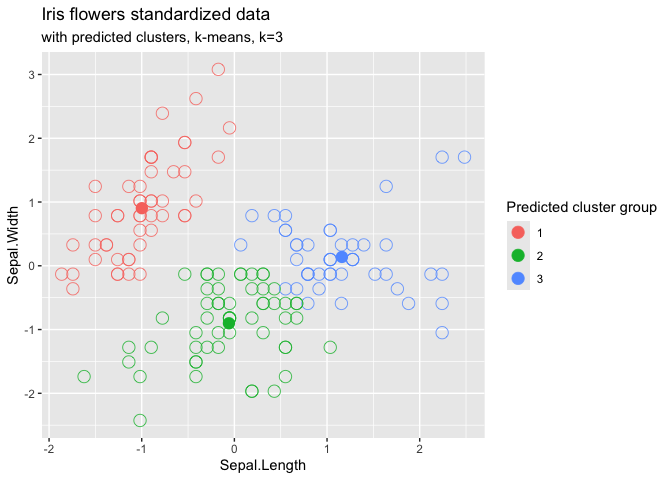
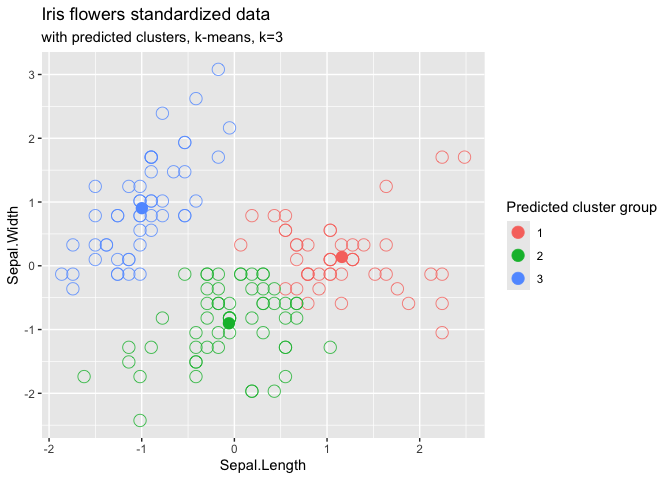
corrections

diff --git a/Clustering/Clustering.md b/Clustering/Clustering.md
@@ -128,23 +128,23 @@ km3 <- kmeans(scale(iris_sepal), centers = 3, nstart = 10)
 km3
 ```
 
-    ## K-means clustering with 3 clusters of sizes 49, 56, 45
+    ## K-means clustering with 3 clusters of sizes 45, 56, 49
     ## 
     ## Cluster means:
     ##   Sepal.Length Sepal.Width
-    ## 1  -0.99872072   0.9032290
+    ## 1   1.16066951   0.1386766
     ## 2  -0.05880023  -0.9017619
-    ## 3   1.16066951   0.1386766
+    ## 3  -0.99872072   0.9032290
     ## 
     ## Clustering vector:
-    ##   [1] 1 1 1 1 1 1 1 1 1 1 1 1 1 1 1 1 1 1 1 1 1 1 1 1 1 1 1 1 1 1 1 1 1 1 1 1 1
-    ##  [38] 1 1 1 1 2 1 1 1 1 1 1 1 1 3 3 3 2 3 2 3 2 3 2 2 2 2 2 2 3 2 2 2 2 3 2 2 2
-    ##  [75] 3 3 3 3 2 2 2 2 2 2 2 3 3 2 2 2 2 2 2 2 2 2 2 2 2 2 3 2 3 3 3 3 2 3 2 3 3
-    ## [112] 2 3 2 2 3 3 3 3 2 3 2 3 2 3 3 2 2 2 3 3 3 2 2 2 3 3 3 2 3 3 3 2 3 3 3 2 3
-    ## [149] 3 2
+    ##   [1] 3 3 3 3 3 3 3 3 3 3 3 3 3 3 3 3 3 3 3 3 3 3 3 3 3 3 3 3 3 3 3 3 3 3 3 3 3
+    ##  [38] 3 3 3 3 2 3 3 3 3 3 3 3 3 1 1 1 2 1 2 1 2 1 2 2 2 2 2 2 1 2 2 2 2 1 2 2 2
+    ##  [75] 1 1 1 1 2 2 2 2 2 2 2 1 1 2 2 2 2 2 2 2 2 2 2 2 2 2 1 2 1 1 1 1 2 1 2 1 1
+    ## [112] 2 1 2 2 1 1 1 1 2 1 2 1 2 1 1 2 2 2 1 1 1 2 2 2 1 1 1 2 1 1 1 2 1 1 1 2 1
+    ## [149] 1 2
     ## 
     ## Within cluster sum of squares by cluster:
-    ## [1] 38.72457 34.32476 28.88194
+    ## [1] 28.88194 34.32476 38.72457
     ##  (between_SS / total_SS =  65.8 %)
     ## 
     ## Available components:
@@ -179,60 +179,42 @@ Code for accessing different elements from the km3 model.
 km3$cluster # the predicted values
 ```
 
-    ##   [1] 1 1 1 1 1 1 1 1 1 1 1 1 1 1 1 1 1 1 1 1 1 1 1 1 1 1 1 1 1 1 1 1 1 1 1 1 1
-    ##  [38] 1 1 1 1 2 1 1 1 1 1 1 1 1 3 3 3 2 3 2 3 2 3 2 2 2 2 2 2 3 2 2 2 2 3 2 2 2
-    ##  [75] 3 3 3 3 2 2 2 2 2 2 2 3 3 2 2 2 2 2 2 2 2 2 2 2 2 2 3 2 3 3 3 3 2 3 2 3 3
-    ## [112] 2 3 2 2 3 3 3 3 2 3 2 3 2 3 3 2 2 2 3 3 3 2 2 2 3 3 3 2 3 3 3 2 3 3 3 2 3
-    ## [149] 3 2
+    ##   [1] 3 3 3 3 3 3 3 3 3 3 3 3 3 3 3 3 3 3 3 3 3 3 3 3 3 3 3 3 3 3 3 3 3 3 3 3 3
+    ##  [38] 3 3 3 3 2 3 3 3 3 3 3 3 3 1 1 1 2 1 2 1 2 1 2 2 2 2 2 2 1 2 2 2 2 1 2 2 2
+    ##  [75] 1 1 1 1 2 2 2 2 2 2 2 1 1 2 2 2 2 2 2 2 2 2 2 2 2 2 1 2 1 1 1 1 2 1 2 1 1
+    ## [112] 2 1 2 2 1 1 1 1 2 1 2 1 2 1 1 2 2 2 1 1 1 2 2 2 1 1 1 2 1 1 1 2 1 1 1 2 1
+    ## [149] 1 2
 
 ``` r
 km3$centers # where the scaled cluster centers are located
 ```
 
     ##   Sepal.Length Sepal.Width
-    ## 1  -0.99872072   0.9032290
+    ## 1   1.16066951   0.1386766
     ## 2  -0.05880023  -0.9017619
-    ## 3   1.16066951   0.1386766
+    ## 3  -0.99872072   0.9032290
 
 ``` r
 km3$size # how many points are predicted of each cluster
 ```
 
-    ## [1] 49 56 45
+    ## [1] 45 56 49
 
 ``` r
-as.tibble(km3$cluster) %>% 
+as_tibble(km3$cluster) %>% 
   count(value)
 ```
-
-    ## Warning: `as.tibble()` was deprecated in tibble 2.0.0.
-    ## ℹ Please use `as_tibble()` instead.
-    ## ℹ The signature and semantics have changed, see `?as_tibble`.
-    ## This warning is displayed once every 8 hours.
-    ## Call `lifecycle::last_lifecycle_warnings()` to see where this warning was
-    ## generated.
 
     ## # A tibble: 3 × 2
     ##   value     n
     ##   <int> <int>
-    ## 1     1    49
+    ## 1     1    45
     ## 2     2    56
-    ## 3     3    45
+    ## 3     3    49
 
 Add the predictions to the iris dataset, so we can plot the result in a
-scatterplot and see if the clustering makes sense for our data.
-
-``` r
-as.tibble(km3$centers) %>% 
-  mutate(predicted_cluster=c(1,2,3))
-```
-
-    ## # A tibble: 3 × 3
-    ##   Sepal.Length Sepal.Width predicted_cluster
-    ##          <dbl>       <dbl>             <dbl>
-    ## 1      -0.999        0.903                 1
-    ## 2      -0.0588      -0.902                 2
-    ## 3       1.16         0.139                 3
+scatterplot and see if the clustering solution given by the model makes
+sense for our data.
 
 ``` r
 iris_predicted <- bind_cols(iris_sepal, tibble(predicted_cluster=km3$cluster))
@@ -243,17 +225,31 @@ iris_predicted
     ## # A tibble: 150 × 3
     ##    Sepal.Length Sepal.Width predicted_cluster
     ##           <dbl>       <dbl>             <int>
-    ##  1          5.1         3.5                 1
-    ##  2          4.9         3                   1
-    ##  3          4.7         3.2                 1
-    ##  4          4.6         3.1                 1
-    ##  5          5           3.6                 1
-    ##  6          5.4         3.9                 1
-    ##  7          4.6         3.4                 1
-    ##  8          5           3.4                 1
-    ##  9          4.4         2.9                 1
-    ## 10          4.9         3.1                 1
+    ##  1          5.1         3.5                 3
+    ##  2          4.9         3                   3
+    ##  3          4.7         3.2                 3
+    ##  4          4.6         3.1                 3
+    ##  5          5           3.6                 3
+    ##  6          5.4         3.9                 3
+    ##  7          4.6         3.4                 3
+    ##  8          5           3.4                 3
+    ##  9          4.4         2.9                 3
+    ## 10          4.9         3.1                 3
     ## # ℹ 140 more rows
+
+Build a similar tibble for the cluster centers.
+
+``` r
+as_tibble(km3$centers) %>% 
+  mutate(predicted_cluster=c(1,2,3))
+```
+
+    ## # A tibble: 3 × 3
+    ##   Sepal.Length Sepal.Width predicted_cluster
+    ##          <dbl>       <dbl>             <dbl>
+    ## 1       1.16         0.139                 1
+    ## 2      -0.0588      -0.902                 2
+    ## 3      -0.999        0.903                 3
 
 Plotting the resulting clusters resulting from the k-means model with
 k=3.
@@ -277,7 +273,7 @@ center points.
 bind_cols(scale(iris_sepal), tibble(predicted_cluster=km3$cluster)) %>%
   mutate(predicted_cluster=factor(predicted_cluster)) %>% 
   ggplot(aes(x=Sepal.Length, y=Sepal.Width, color=predicted_cluster)) +
-  geom_point(data=as.tibble(km3$centers) %>% 
+  geom_point(data=as_tibble(km3$centers) %>% 
                mutate(predicted_cluster=factor(c(1,2,3))), 
              shape=16, size=4,
              aes(x=Sepal.Length, y=Sepal.Width)) +
